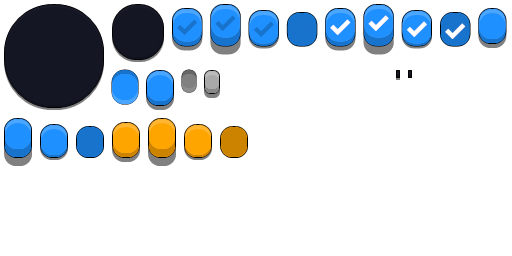
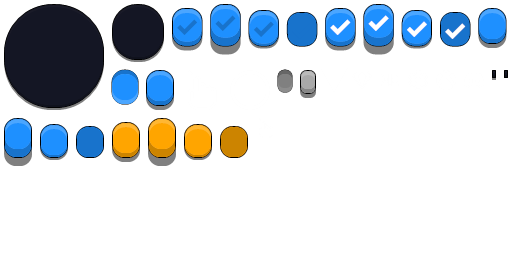
Complete redisign of interactions

diff --git a/RbfxTemplate/Player.cs b/RbfxTemplate/Player.cs
@@ -29,17 +29,17 @@ namespace RbfxTemplate
             set
             {
                 if (_selectedNode != value)
-                {
-                    if (_selectedNode != null && !_selectedNode.IsExpired)
-                        _selectedNode.SendEvent("Unselected", Context.EventDataMap);
+                { 
+                    _interactable?.OnHoverEnd(this);
 
                     _selectedNode = value;
                     _interactable = null;
                     if (_selectedNode != null)
                     {
-                        _selectedNode.SendEvent("Selected", Context.EventDataMap);
                         _interactable = _selectedNode.GetDerivedComponent<IInteractable>() ??
                                         _selectedNode.GetParentDerivedComponent<IInteractable>();
+
+                        _interactable?.OnHoverStart(this);
                     }
                 }
             }
@@ -57,6 +57,7 @@ namespace RbfxTemplate
         public Constraint Constraint { get; set; }
 
         public InputMap InputMap { get; set; }
+        public float InteractionProgress { get; set; }
 
         public override void DelayedStart()
         {
@@ -85,22 +86,7 @@ namespace RbfxTemplate
                     BodyInArms = null;
                     if (SelectedNode != null)
                     {
-                        if (SelectedNode.HasTag("Pickable"))
-                        {
-                            BodyInArms = SelectedNode.GetComponent<RigidBody>();
-                        }
-                        else
-                        {
-                            var map = Context.EventDataMap;
-                            map["Player"] = this;
-                            SelectedNode.SendEvent("Use", map);
-                        }
-                    }
-
-                    if (BodyInArms != null && BodyInArms.Mass > 0)
-                    {
-                        Constraint.OtherBody = BodyInArms;
-                        SelectedNode = null;
+                        Interactable?.Interact(this);
                     }
                 }
                 else
@@ -134,6 +120,15 @@ namespace RbfxTemplate
         public void GetIntoVehicle(Vehicle vehicle)
         {
             _character.TransitionToState(CharacterState.InVehicle, vehicle);
+        }
+
+        public void TakeInHands(Node node)
+        {
+            BodyInArms = node.GetComponent<RigidBody>();
+            if (BodyInArms.Mass <= 0)
+                BodyInArms = null;
+            Constraint.OtherBody = BodyInArms;
+            SelectedNode = null;
         }
     }
 }

diff --git a/RbfxTemplate/Selectable.cs b/RbfxTemplate/Selectable.cs
@@ -7,30 +7,42 @@ namespace RbfxTemplate
     {
         private ComponentList _drawables;
 
-        [SerializeField(Mode = AttributeMode.AmDefault, Name = "Title")]
-        public string Title { get; set; }
+        /// <inheritdoc/>
+        [SerializeField(Mode = AttributeMode.AmDefault, Name = "Tooltip")]
 
+        public string Tooltip { get; set; }
+
+        /// <inheritdoc/>
+        public virtual bool InteractionEnabled { get; } = false;
+
+        /// <inheritdoc/>
+        public virtual float InteractionDuration { get; }
 
         public Selectable(Context context) : base(context)
         {
         }
 
-        protected override void OnNodeSet(Node previousNode, Node currentNode)
+        /// <inheritdoc/>
+        public virtual void OnHoverStart(Player player)
         {
-            base.OnNodeSet(previousNode, currentNode);
-            if (currentNode != null)
+            var outline = Scene.GetComponent<OutlineGroup>();
+            if (outline != null)
             {
-                SubscribeToEvent("Selected", currentNode, Select);
-                SubscribeToEvent("Unselected", currentNode, Unselect);
-            }
-            else
-            {
-                UnsubscribeFromAllEvents();
+                _drawables = Node.GetDerivedComponents<Drawable>(true);
+                foreach (var component in _drawables)
+                {
+                    var drawable = component as Drawable;
+                    outline.AddDrawable(drawable);
+                }
             }
         }
 
-        private void Unselect(VariantMap obj)
+        /// <inheritdoc/>
+        public virtual void OnHoverEnd(Player player)
         {
+            if (this.IsExpired)
+                return;
+
             var outline = Scene.GetComponent<OutlineGroup>();
             if (outline != null && _drawables != null)
                 foreach (var component in _drawables)
@@ -40,18 +52,9 @@ namespace RbfxTemplate
                 }
         }
 
-        private void Select(VariantMap obj)
+        /// <inheritdoc/>
+        public virtual void Interact(Player player)
         {
-            var outline = Scene.GetComponent<OutlineGroup>();
-            if (outline != null)
-            {
-                _drawables = Node.GetComponents<StaticModel>(true);
-                foreach (var component in _drawables)
-                {
-                    var drawable = component as Drawable;
-                    outline.AddDrawable(drawable);
-                }
-            }
         }
     }
 }

diff --git a/RbfxTemplate/GameState.cs b/RbfxTemplate/GameState.cs
@@ -15,6 +15,9 @@ namespace RbfxTemplate
         private readonly Player _player;
 
         private string _interactableTooltip = string.Empty;
+        private bool _interactionEnabled = false;
+        private bool _hasInteractable = false;
+        private float _interactionProgress;
 
         public string InteractableTooltip
         {
@@ -22,6 +25,24 @@ namespace RbfxTemplate
             set => SetRmlVariable(ref _interactableTooltip, value);
         }
 
+        public bool InteractionEnabled
+        {
+            get => _interactionEnabled;
+            set => SetRmlVariable(ref _interactionEnabled, value);
+        }
+
+        public bool HasInteractable
+        {
+            get => _hasInteractable;
+            set => SetRmlVariable(ref _hasInteractable, value);
+        }
+
+        public float InteractionProgress
+        {
+            get => _interactionProgress;
+            set => SetRmlVariable(ref _interactionProgress, value);
+        }
+        
         public GameState(UrhoPluginApplication app) : base(app, "UI/GameUI.rml")
         {
             MouseMode = MouseMode.MmRelative;
@@ -82,6 +103,8 @@ namespace RbfxTemplate
         public override void OnDataModelInitialized(GameRmlUIComponent menuComponent)
         {
             menuComponent.BindDataModelProperty(nameof(InteractableTooltip), _ => _.Set(_interactableTooltip), _ => { });
+            menuComponent.BindDataModelProperty(nameof(InteractionEnabled), _ => _.Set(_interactionEnabled), _ => { });
+            menuComponent.BindDataModelProperty(nameof(HasInteractable), _ => _.Set(_hasInteractable), _ => { });
         }
 
         public override void Activate(StringVariantMap bundle)
@@ -106,7 +129,14 @@ namespace RbfxTemplate
         {
             base.Update(timeStep);
 
-            InteractableTooltip = _player.Interactable?.Title ?? string.Empty;
+            var interactable = _player.Interactable;
+            InteractionProgress = _player.InteractionProgress;
+            HasInteractable = interactable != null;
+            if (HasInteractable)
+            {
+                InteractableTooltip = interactable.Tooltip ?? string.Empty;
+                InteractionEnabled = interactable.InteractionEnabled;
+            }
         }
 
         protected override void Dispose(bool disposing)

diff --git a/RbfxTemplate/Pickable.cs b/RbfxTemplate/Pickable.cs
@@ -3,36 +3,19 @@
 namespace RbfxTemplate
 {
     [ObjectFactory(Category = "Component/Game")]
-    public partial class Pickable : Component, IInteractable
+    public partial class Pickable : Selectable
     {
         public Pickable(Context context) : base(context)
         {
         }
 
-        [SerializeField(Mode = AttributeMode.AmDefault, Name = "Inventory Key")]
-        public string InventoryKey { get; set; } = string.Empty;
+        /// <inheritdoc/>
+        public override bool InteractionEnabled { get; } = true;
 
-        [SerializeField(Mode = AttributeMode.AmDefault, Name = "Title")]
-        public string Title { get; set; }
-
-
-        protected override void OnNodeSet(Node previousNode, Node currentNode)
+        public override void Interact(Player player)
         {
-            if (currentNode != null)
-                SubscribeToEvent("Use", currentNode, HandleUse);
-            else
-                UnsubscribeFromEvent("Use");
-            base.OnNodeSet(previousNode, currentNode);
-        }
-
-        private void HandleUse(VariantMap args)
-        {
-            var player = args["Player"].Ptr as Player;
-            if (player != null)
-            {
-                player.AddToInventory(InventoryKey);
-                Node.Remove();
-            }
+            player.TakeInHands(Node);
+            base.Interact(player);
         }
     }
 }

diff --git a/RbfxTemplate/IInteractable.cs b/RbfxTemplate/IInteractable.cs
@@ -5,6 +5,37 @@ namespace RbfxTemplate
     [DerivedFrom]
     public interface IInteractable
     {
-        string Title { get; }
+        /// <summary>
+        /// Text to display when hovering over object.
+        /// </summary>
+        string Tooltip { get; }
+
+        /// <summary>
+        /// Is interaction enabled.
+        /// </summary>
+        bool InteractionEnabled { get; }
+
+        /// <summary>
+        /// For how long the player should keep Use button pressed to complete interaction.
+        /// </summary>
+        float InteractionDuration { get; }
+
+        /// <summary>
+        /// Called by <see cref="Player"/> when cursor hovers over this object.
+        /// </summary>
+        /// <param name="player">Player component.</param>
+        void OnHoverStart(Player player);
+
+        /// <summary>
+        /// Called by <see cref="Player"/> when cursor leaves this object.
+        /// </summary>
+        /// <param name="player">Player component.</param>
+        void OnHoverEnd(Player player);
+
+        /// <summary>
+        /// Interact with player.
+        /// </summary>
+        /// <param name="player">Player component.</param>
+        void Interact(Player player);
     }
 }

diff --git a/RbfxTemplate/DoorButton.cs b/RbfxTemplate/DoorButton.cs
@@ -3,7 +3,7 @@
 namespace RbfxTemplate
 {
     [ObjectFactory(Category = "Component/Game")]
-    public partial class DoorButton : Component
+    public partial class DoorButton : Selectable
     {
         private ResourceRef _openAnimationAttr = new ResourceRef(nameof(Animation));
         private ResourceRef _closeAnimationAttr = new ResourceRef(nameof(Animation));
@@ -65,16 +65,7 @@ namespace RbfxTemplate
         [SerializeField]
         public bool Open { get; set; }
 
-        protected override void OnNodeSet(Node previousNode, Node currentNode)
-        {
-            if (currentNode != null)
-                SubscribeToEvent("Use", currentNode, HandleUse);
-            else
-                UnsubscribeFromEvent("Use");
-            base.OnNodeSet(previousNode, currentNode);
-        }
-
-        private void HandleUse(VariantMap obj)
+        public override void Interact(Player player)
         {
             var controller = Node.Parent.GetComponent<AnimationController>(true);
             if (controller.NumAnimations > 0)

diff --git a/RbfxTemplate/InventoryItem.cs b/RbfxTemplate/InventoryItem.cs
@@ -1,0 +1,25 @@
+using Urho3DNet;
+
+namespace RbfxTemplate
+{
+    [ObjectFactory(Category = "Component/Game")]
+    public partial class InventoryItem : Selectable
+    {
+        public InventoryItem(Context context) : base(context)
+        {
+        }
+
+        [SerializeField(Mode = AttributeMode.AmDefault, Name = "Inventory Key")]
+        public string InventoryKey { get; set; } = string.Empty;
+
+        /// <inheritdoc/>
+        public override bool InteractionEnabled { get; } = true;
+
+        public override void Interact(Player player)
+        {
+            player.AddToInventory(InventoryKey);
+            OnHoverEnd(player);
+            Node.Remove();
+        }
+    }
+}
